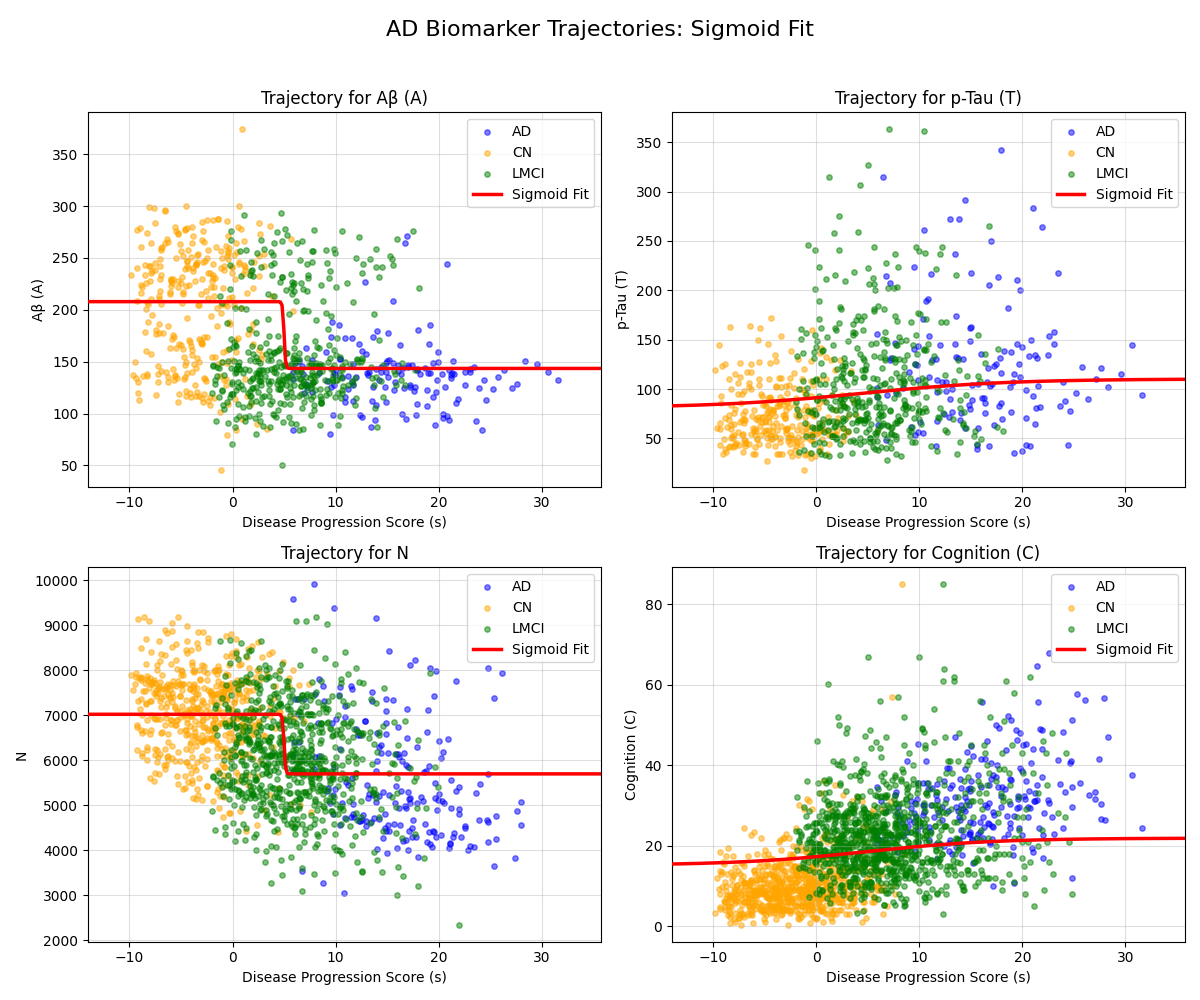
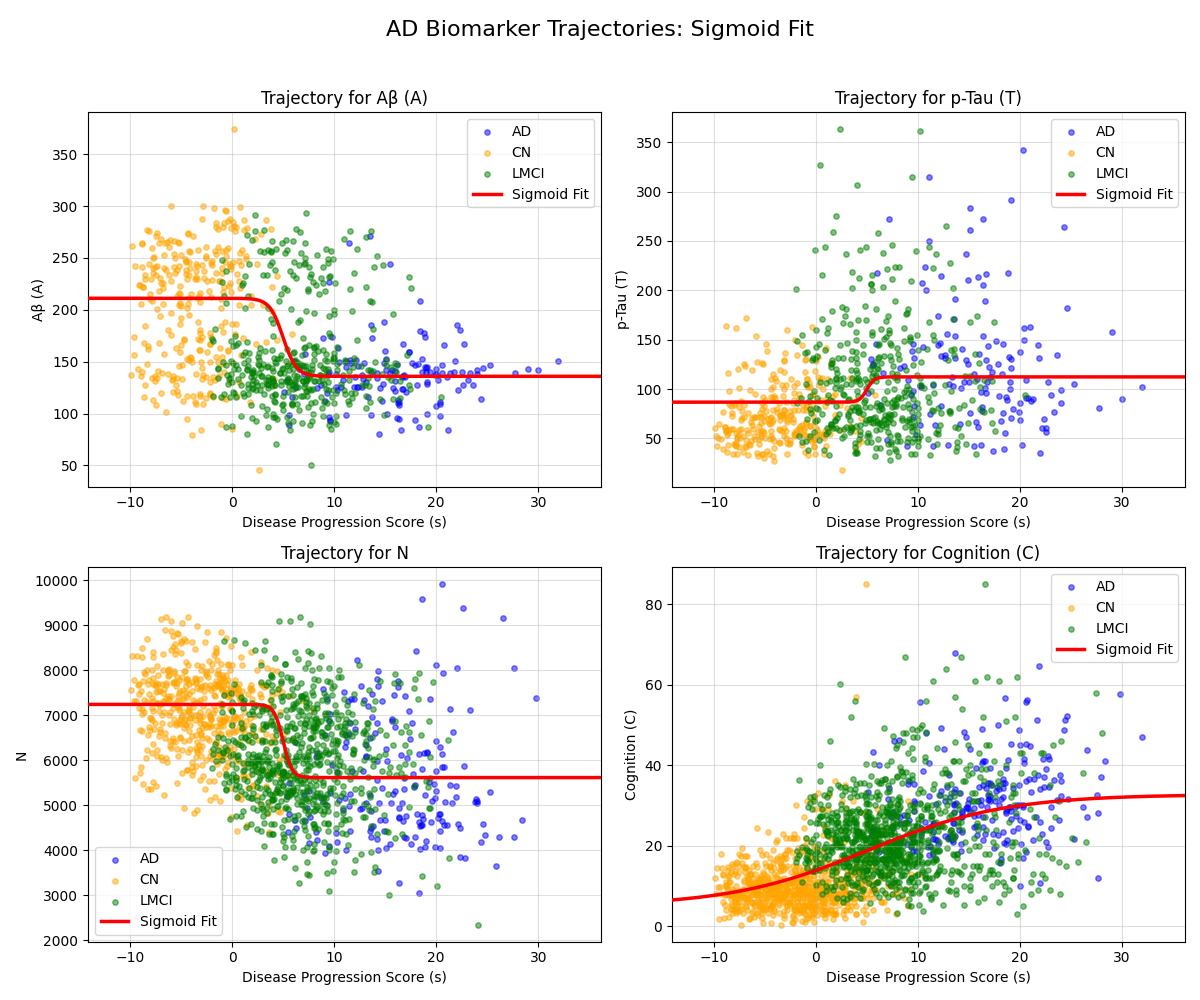
取消了”两个拐点范围“约束

diff --git a/pretrain.py b/pretrain.py
@@ -196,24 +196,12 @@ def _sigmoid_regularized_residuals(params, s_valid, y_valid, reg_cfg):
     # 幅度不要过大：|a| <= target_amp_max
     amp_pen = max(0.0, np.abs(a) - target_amp_max) * np.sqrt(w_curv)
 
-    # 增强"两个拐点"约束：不仅要接近目标值，还要在指定范围内
+    # 仍保留"两个拐点"约束
     b_safe = b if np.abs(b) > 1e-6 else 1e-6
     turn_left = c - (np.log(2.0) / b_safe)
     turn_right = c + (np.log(2.0) / b_safe)
-    
-    # 左拐点约束：接近0且在[-2, 2]范围内
-    turn_pen_left = (turn_left - 0.0) ** 2 * np.sqrt(w_turn)
-    if turn_left < -2.0:
-        turn_pen_left += ((-2.0 - turn_left) ** 2) * np.sqrt(w_turn)
-    elif turn_left > 2.0:
-        turn_pen_left += ((turn_left - 2.0) ** 2) * np.sqrt(w_turn)
-    
-    # 右拐点约束：接近10且在[8, 12]范围内
-    turn_pen_right = (turn_right - 10.0) ** 2 * np.sqrt(w_turn)
-    if turn_right < 8.0:
-        turn_pen_right += ((8.0 - turn_right) ** 2) * np.sqrt(w_turn)
-    elif turn_right > 12.0:
-        turn_pen_right += ((turn_right - 12.0) ** 2) * np.sqrt(w_turn)
+    turn_pen_left = (turn_left - 0.0) * np.sqrt(w_turn)
+    turn_pen_right = (turn_right - 10.0) * np.sqrt(w_turn)
 
     reg_terms = np.array([
         turn_pen_left,
@@ -242,7 +230,7 @@ def _sigmoid_fit_loss(params, s_valid, y_valid, reg_cfg):
     w_cn = reg_cfg['w_cn']
     w_plat = reg_cfg['w_plat']
     target_b_abs = reg_cfg['target_b_abs']
-    target_b_max = reg_cfg.get('target_b_max', 0.5)
+    target_b_max = reg_cfg.get('target_b_max', 0.9)
 
     # 让曲线经过指定点 (s_target, y_target)
     s_target = reg_cfg.get('s_target', 0.0)
@@ -265,24 +253,12 @@ def _sigmoid_fit_loss(params, s_valid, y_valid, reg_cfg):
     curv_pen_low = max(0.0, target_b_abs - np.abs(b)) * np.sqrt(w_curv)
     curv_pen_high = max(0.0, np.abs(b) - target_b_max) * np.sqrt(w_curv)
 
-    # 增强"两个拐点"约束：不仅要接近目标值，还要在指定范围内
+    # 仍保留"两个拐点"约束
     b_safe = b if np.abs(b) > 1e-6 else 1e-6
     turn_left = c - (np.log(2.0) / b_safe)
     turn_right = c + (np.log(2.0) / b_safe)
-    
-    # 左拐点约束：接近0且在[-2, 2]范围内
-    turn_pen_left = (turn_left - 0.0) ** 2 * np.sqrt(w_turn)
-    if turn_left < -2.0:
-        turn_pen_left += ((-2.0 - turn_left) ** 2) * np.sqrt(w_turn)
-    elif turn_left > 2.0:
-        turn_pen_left += ((turn_left - 2.0) ** 2) * np.sqrt(w_turn)
-    
-    # 右拐点约束：接近10且在[8, 12]范围内
-    turn_pen_right = (turn_right - 10.0) ** 2 * np.sqrt(w_turn)
-    if turn_right < 8.0:
-        turn_pen_right += ((8.0 - turn_right) ** 2) * np.sqrt(w_turn)
-    elif turn_right > 12.0:
-        turn_pen_right += ((turn_right - 12.0) ** 2) * np.sqrt(w_turn)
+    turn_pen_left = (turn_left - 0.0) * np.sqrt(w_turn)
+    turn_pen_right = (turn_right - 10.0) * np.sqrt(w_turn)
 
     reg_terms = np.array([
         turn_pen_left,
@@ -311,13 +287,13 @@ def fit_sigmoids_regularized(s_data, y_data, reg_cfg=None):
     """
     if reg_cfg is None:
         reg_cfg = {
-            'w_turn': 12.0,
-            'w_center': 4.0,
+            'w_turn': 5.0,
+            'w_center': 2.0,
             'w_curv': 3.0,
             'w_cn': 8.0,
             'w_plat': 6.0,
-            'target_b_abs': 0.2,
-            'target_b_max': 0.4,
+            'target_b_abs': 0.6,
+            'target_b_max': 0.9,
             'target_amp_max': 2.0
         }
 
@@ -347,7 +323,7 @@ def fit_sigmoids_regularized(s_data, y_data, reg_cfg=None):
         amp_init = np.max(y_k_valid) - np.min(y_k_valid)
         center_init = np.median(s_k_valid)
         slope_sign = -1.0 if np.corrcoef(s_k_valid, y_k_valid)[0, 1] < 0 else 1.0
-        p0 = [amp_init, 0.3 * slope_sign, center_init, np.min(y_k_valid)]
+        p0 = [amp_init, 1.0 * slope_sign, center_init, np.min(y_k_valid)]
 
         result = least_squares(
             _sigmoid_regularized_residuals,
@@ -375,13 +351,13 @@ def train_sigmoid_only(csf_dict, stage_dict):
         s_pop,
         y_pop_norm,
         reg_cfg={
-            'w_turn': 12.0,
-            'w_center': 4.0,
+            'w_turn': 5.0,
+            'w_center': 2.0,
             'w_curv': 3.0,
             'w_cn': 10.0,
             'w_plat': 8.0,
-            'target_b_abs': 0.2,
-            'target_b_max': 0.5,
+            'target_b_abs': 0.6,
+            'target_b_max': 0.9,
             'target_amp_max': 2.0,
             's_target': -20.0,
             'y_target': y0_cn,
